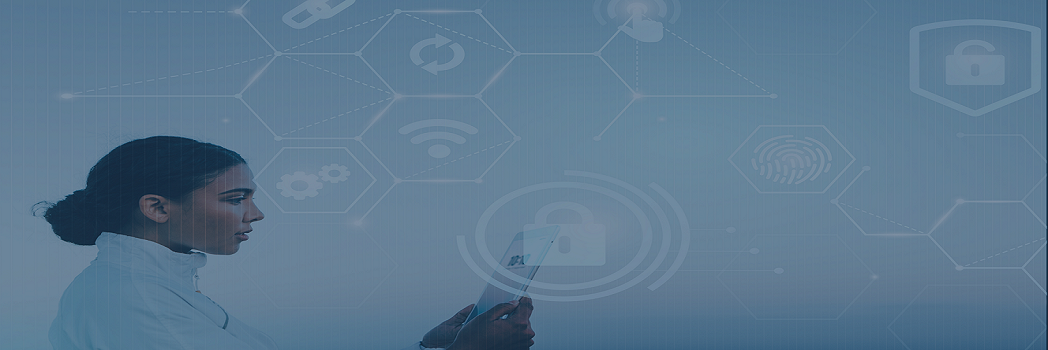
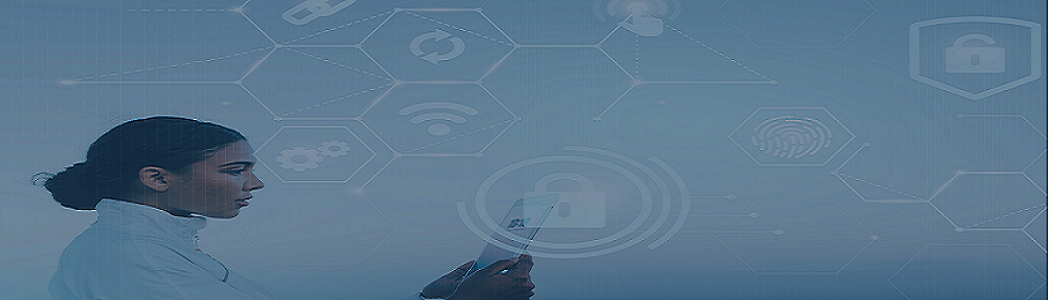
changfont family
uncompleted

diff --git a/index1.html b/index1.html
@@ -54,7 +54,7 @@
     </ol> -->
     <div class="carousel-inner">
       <div class="carousel-item active">
-        <img src="./images _of _web/Banner.png" class="d-block w-100" alt="...">
+        <img src="./images _of _web/Banner1 - Copy.png" class="d-block w-100" alt="...">
         <div class="carousel-caption">
           <h1 class="f-sm my-0">A Digital Innovation and</h1>
           <h1 class="f-sm">Transformation Company</h1>
@@ -91,12 +91,12 @@
   <!-- <div class="pt-5" id="emptydiv">
     </div> -->
    
-<div id="aboutus1" class="pb-5 pt-4">
+<div id="aboutus1" class="pb-4 pt-4">
  <div class="container">
   <div class="row">
     <div class="col-lg-12">
    <div class="heading">
-     <p class="h4 text-center pb-3 pt-2"><strong>ABOUT&nbsp;<span class="red">US</span></strong></p>
+     <p class="h4 text-center pb-1"><strong>ABOUT&nbsp;<span class="red">US</span></strong></p>
      </div>
     <div class="part1">
      <p class="para text-center my-0">Digivito is the brainchild of passionate, tech savvy professionals Pawan Yadav, Arti Agrawal and R. A. Yadav</p>
@@ -159,15 +159,15 @@
   <!-- What we do page start -->
   <!-- <div class="pt-4" id="emptydiv2">
   </div> -->
-<div class="Container-fluid bg-light1 pt-2 pb-5" id="whatwedo1">
+<div class="Container-fluid bg-light1 pb-4" id="whatwedo1">
 <div class="heading">
-      <p class="h4 text-center pt-4 pb-3"><strong><span class="red">WHAT</span>&nbsp;WE&nbsp;DO</strong></p>
+      <p class="h4 text-center pt-4"><strong><span class="red">WHAT</span>&nbsp;WE&nbsp;DO</strong></p>
 </div>
-<div class="tagline py-2">
+<div class="tagline py-1">
   <p class="para text-center px-2">Digivito Services and Solutions Discover Our Expertise</p>
 </div>
 <div class="container">
- <div class="row pt-3">
+ <div class="row pt-2">
   <div class="col-lg-12">
 <!--card part start-->
 <div class="row justify-content-md-center">
@@ -292,9 +292,9 @@
                            <!--3rd container fluid start-->
  <!-- <div class="pt-5" id="emptydiv3">
   </div> -->
-<div class="Container-fluid pt-3" id="blogs1">            
+<div class="Container-fluid" id="blogs1">            
   <div class="heading">
-      <p class="h4 text-center pt-4 pb-4"><strong>BLOG<span class="red">'S</span></strong></p>
+      <p class="h4 text-center pt-4 pb-3"><strong>BLOG<span class="red">'S</span></strong></p>
    </div>
       <!-- <div class="tagline py-2">
         <p class="para text-center">Lorem ipsum dolor sit amet, consectetur adipisicing elit, sed do eiusmod tempor incididunt ut labore.</p>
@@ -334,7 +334,7 @@
               </div>
            </div>
     </div>
-    <div class="linkbutton text-center pt-4 pb-5">
+    <div class="linkbutton text-center pb-4">
       <a href="index1.html" class="btn btn-primary">READ MORE BLOG’S</a>
    </div>
   </div>                   <!--col end-->
@@ -346,7 +346,7 @@
 <div class="container-fluid px-0">
 <div class="backgroung-image">
   <div class="heading">
-    <p class="h4 text-center pt-5 pb-4"><strong><span class="cwhite">TESTIMONIAL</span><span class="red">'S</span></strong></p>
+    <p class="h4 text-center pt-4 pb-2"><strong><span class="cwhite">TESTIMONIAL</span><span class="red">'S</span></strong></p>
  </div>
     <!-- <div class="tagline py-2">
       <p class="whitecolor text-center">Lorem ipsum dolor sit amet, consectetur adipisicing elit, sed do eiusmod tempor incididunt ut labore.</p>
@@ -426,15 +426,15 @@
 </div>                 <!--4thrd container-fluid end here--> 
 
 <!--icon size/small image slider part start-->
-<div class="Container-fluid bg-light1 pb-5">
+<div class="Container-fluid bg-light1 pb-4">
   <div class="heading">
-        <p class="h4 text-center pt-5 pb-2"><strong><span class="red">OUR</span>&nbsp;CLIENTS</strong></p>
+        <p class="h4 text-center pt-4 pb-1"><strong><span class="red">OUR</span>&nbsp;CLIENTS</strong></p>
   </div>
   <div class="tagline">
     <p class="para text-center">Partners in Growth</p>
   </div>
 <div class="container mb-5">
-<div class="row pt-3">
+<div class="row pt-2">
   <div class="col-lg-12">
     <div class="row justify-content-md-center">
       <div class="col-md-10">
@@ -513,9 +513,9 @@
 <!--container fluid enddd-->
 <!-- <div class="pt-3" id="emptydiv4">
 </div> -->
-<div class="container pt-3" id="contactus">      <!--contact us block-->
+<div class="container" id="contactus">      <!--contact us block-->
   <div class="heading">
-    <p class="h4 text-center pt-3 pb-1"><strong>CONTACT&nbsp;<span class="red">US</span></strong></p>
+    <p class="h4 text-center pt-4"><strong>CONTACT&nbsp;<span class="red">US</span></strong></p>
  </div>
   
   <div class="row justify-content-md-center">
@@ -550,12 +550,12 @@
                                 <label for="validationTextarea">MESSAGE <span class="red">*</span></label>
                                 <textarea class="form-control is-invalid" id="validationTextarea" placeholder="Required message here..." required></textarea>
                                 <div class="invalid-feedback">
-                                  Please enter a message in the textarea.
+                                  Please enter a message in the text area.
                                 </div>
                              </div>
                             
                             </div>
-                          <div class="col-md-12 mb-3 text-center">
+                          <div class="col-md-12 mb-4 text-center">
                             <button class="btn btn-secondary" type="submit">SEND</button>
                           </div>
                           </form>

diff --git a/index2.html b/index2.html
@@ -85,16 +85,16 @@
   <div class="row">
     <div class="col-lg-12">
    <div class="heading">
-     <p class="h4 text-center pt-5 pb-4"><strong>PRIVACY&nbsp;<span class="red">POLICY</span></strong></p>
+     <p class="h4 text-center pt-4 pb-2"><strong>PRIVACY&nbsp;<span class="red">POLICY</span></strong></p>
      </div>
-     <div class="maintitle py-3">
+     <div class="maintitle">
         <p class="h6 text-center"><strong>DIGIVITO PRIVACY POLICY</strong></p>
       </div>
     <div class="part1 pt-1">
      <p class="para text-center">At <a class="linkcolor" href="index1.html"><ins>digivito.com</ins></a>, accessible from <a class="linkcolor" href="index1.html"><ins>https://www.digivito.com</ins></a>, one of our main priorities is the privacy of our visitors. This Privacy Policy document contains types of information that is collected and recorded by <a class="linkcolor" href="index1.html"><ins></a>digivito.com</ins> and how we use it.</p>
   </div>
  
- <div class="maintitle py-3">
+ <div class="maintitle">
     <p class="h6 text-center"><strong>LOG FILES</strong></p>
   </div>
   <div class="part1 pt-1">
@@ -104,7 +104,7 @@
      <p class="para text-center my-0">information that is personally identifiable. The purpose of the information is for analyzing trends, administering the site, tracking users'</p>
       <p class="para text-center">movement on the website, and gathering demographic information.</p> -->
 </div>
-<div class="maintitle py-3">
+<div class="maintitle">
     <p class="h6 text-center"><strong>PRIVACY POLICIES</strong></p>
   </div>
  <div class="part1 pt-1">
@@ -113,7 +113,7 @@
  
   <p class="para text-center">Note that <a class="linkcolor" href="index1.html"><ins>digivito.com</ins></a> has no access to or control over these cookies that are used by third-party advertisers.</p>
 </div>
-<div class="maintitle py-3">
+<div class="maintitle">
     <p class="h6 text-center"><strong>THIRD PARTY PRIVACY POLICIES</strong></p>
   </div>
   <div class="part1 pt-1">
@@ -121,7 +121,7 @@
    
     <p class="para text-center">You can choose to disable cookies through your individual browser options. To know more detailed information about cookie management with specific web browsers, it can be found at the browsers' respective websites. What Are Cookies?</p>
   </div>
-  <div class="maintitle py-3">
+  <div class="maintitle">
     <p class="h6 text-center"><strong>CHILDREN'S INFORMATION</strong></p>
   </div>
   <div class="part1 pt-1">
@@ -130,18 +130,18 @@
     <p class="para text-center"><a class="linkcolor" href="index1.html"><ins>digivito.com</ins></a> does not knowingly collect any Personal Identifiable Information from children under the age of 13. If you think that your child provided this kind of information on our website, we strongly encourage you to contact us immediately and we will do our best efforts to promptly remove such information from our records.</p>
   
   </div>
-  <div class="maintitle py-3">
+  <div class="maintitle">
     <p class="h6 text-center"><strong>ONLINE PRIVACY POLICY ONLY</strong></p>
   </div>
   <div class="part1 pt-1">
     <p class="para text-center">This Privacy Policy applies only to our online activities and is valid for visitors to our website with regards to the information that they shared and/or collect in <a class="linkcolor" href="index1.html"><ins>digivito.com</ins></a>. This policy is not applicable to any information collected offline or via channels other than this website.</p>
   
 </div>
-  <div class="maintitle py-3">
+  <div class="maintitle">
     <p class="h6 text-center"><strong>CONSENT</strong></p>
   </div>
   <div class="part1 pt-1">
-    <p class="para text-center pb-4">By using our website, you hereby consent to our Privacy Policy and agree to its Terms and Conditions.</p>
+    <p class="para text-center pb-2">By using our website, you hereby consent to our Privacy Policy and agree to its Terms and Conditions.</p>
   </div>
   
   </div>

diff --git a/dist/css/style.css b/dist/css/style.css
@@ -48,25 +48,27 @@ a.nav-link.active{
 .carousel-caption{
   display: block;
     text-align: center;
-    top: 30%;
+    top: 20%;
     height: auto;
 /* transform: translateY(-50%); */
 }
                         /* Home css fontsize crousal captionpart */
 h1.f-sm{
-    font-family: MONTSERRAT;
+    font-family: Helvetica;
     font-weight: bold;
-    font-size: 35px;
+    font-size: 40px !important;
 }
 p.f-sm1{
-    font-size: 18px;
+    font-size: 20px !important;
     font-family: Montserrat-Regular;
+    /* font-family: Helvetica; */
 }
   
                      /* About us part css  */
 strong{
     color: #08294C;
-    font-family: MONTSERRAT-BOLD;
+    /* font-family: MONTSERRAT-BOLD; */
+    font-family: Helvetica;
 }
 h3.card-title{
     color: #08294C;
@@ -76,10 +78,11 @@ h3.card-title{
 }
 span.red{
     color: #FF0A00 !important;
-    font-family: MONTSERRAT-BOLD;
+    /* font-family: MONTSERRAT-BOLD; */
+    font-family: Helvetica;
 }
 p.para{
-    font-size: 18px;
+    font-size: 20px;
     color: #08294C;
     font-family: Montserrat-Regular;
 }
@@ -157,7 +160,8 @@ p.whitecolor{
 }
 span.cwhite{
     color:#FFFFFF ;
-    font-family: Montserrat-Regular;
+    /* font-family: Montserrat-Regular; */
+    font-family: Helvetica;
 }
 .card.color-w{
 background-color: #FFFFFF;
@@ -182,7 +186,7 @@ li.active {
     background-color: #FF0A00;
 }
 ol.carousel-indicators.clip1 {
-    bottom: -76px;
+    bottom: -60px;
 }
 ol.carousel-indicators.clip1 li{
     background-color: #08294C;
@@ -196,10 +200,13 @@ ol.carousel-indicators.clip1 li.active{
     color:#FFFFFF;
    background-color: #FF0A00 ;
    border-color:#FF0A00;
-   font-size: 12px;
+   font-size: 14px;
    border: 2px solid;
    border-radius: 7px;
-   padding: 7px 33px;
+   /* padding: 7px 33px; */
+   padding: 4px 55px;
+   /* height: 34px;
+   width: 150px; */
    font-weight: 700;
 }
 .btn-secondary:hover{
@@ -250,7 +257,10 @@ p.parafont{
     font-size: 20px;
 }
 a.linkcolor1{
-    color: #2e2fde;
+    color: #00205B;
+}
+a.linkcolor{
+    color: #1266ff;
 }
 h1.f-sm2{
     font-size: 25px;
@@ -273,10 +283,10 @@ h1.f-sm2{
 }
 h1.f-sm{
     font-family:  MONTSERRAT-BOLD;
-    font-size: 18px;
+    font-size: 16px !important;
 }
 p.f-sm1{
-    font-size: 12px;
+    font-size: 12px !important;
     font-family: Montserrat-Regular;
 }
 h1.f-sm2{
@@ -293,5 +303,4 @@ h1.f-sm2{
     }
   }
 
-  
-
+ 

diff --git a/dist/js/home.js b/dist/js/home.js
@@ -13,16 +13,16 @@ $(document).ready(function () {
         window.scrollTo(0,-1);
        });
        $('#aboutuslink').click(function(e){
-        window.scrollTo(0,460);
+        window.scrollTo(0,400);
        });
        $('#whatwedolink').click(function(e){
-        window.scrollTo(0,1230);
+        window.scrollTo(0,1150);
        });
        $('#blogslink').click(function(e){
-        window.scrollTo(0,2530);
+        window.scrollTo(0,2370);
        });
        $('#contactuslink').click(function(e){
-        window.scrollTo(0,4230);
+        window.scrollTo(0,3900);
        });
     }
     });
